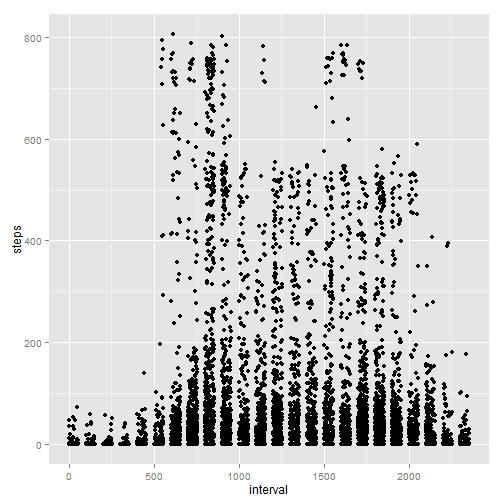
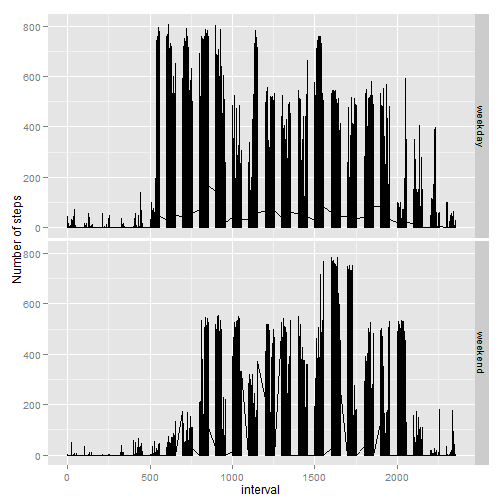
Third version
Completed the assignment with plot for weekdays and weekends.

Changed region(s): [[0.0, 0.0298, 0.9821, 0.9821], [0.7738, 0.0298, 0.8333, 0.0893]]

diff --git a/PA1_template.html b/PA1_template.html
@@ -189,10 +189,12 @@ hljs.initHighlightingOnLoad();
 
 <p>This assignment requires activity.zip file which can be downloaded from <a href="https://d396qusza40orc.cloudfront.net/repdata%2Fdata%2Factivity.zip">this location</a>.<br/>
 We first unzip the file and extract the activity.csv file.<br/>
+We will convert the date column to date object.
 Then let us take a look at the structure of the csv by using the head function and the summary function.</p>
 
 <pre><code class="r">unzip(&quot;activity.zip&quot;)
 activity &lt;- read.csv(&quot;activity.csv&quot;)
+activity$date &lt;- as.Date(activity$date)
 head(activity)
 </code></pre>
 
@@ -208,17 +210,14 @@ head(activity)
 <pre><code class="r">summary(activity)
 </code></pre>
 
-<pre><code>##      steps               date          interval   
-##  Min.   :  0.0   2012-10-01:  288   Min.   :   0  
-##  1st Qu.:  0.0   2012-10-02:  288   1st Qu.: 589  
-##  Median :  0.0   2012-10-03:  288   Median :1178  
-##  Mean   : 37.4   2012-10-04:  288   Mean   :1178  
-##  3rd Qu.: 12.0   2012-10-05:  288   3rd Qu.:1766  
-##  Max.   :806.0   2012-10-06:  288   Max.   :2355  
-##  NA&#39;s   :2304    (Other)   :15840
-</code></pre>
-
-<pre><code class="r">activity$date &lt;- as.Date(activity$date)
+<pre><code>##      steps            date               interval   
+##  Min.   :  0.0   Min.   :2012-10-01   Min.   :   0  
+##  1st Qu.:  0.0   1st Qu.:2012-10-16   1st Qu.: 589  
+##  Median :  0.0   Median :2012-10-31   Median :1178  
+##  Mean   : 37.4   Mean   :2012-10-31   Mean   :1178  
+##  3rd Qu.: 12.0   3rd Qu.:2012-11-15   3rd Qu.:1766  
+##  Max.   :806.0   Max.   :2012-11-30   Max.   :2355  
+##  NA&#39;s   :2304
 </code></pre>
 
 <h2>What is mean total number of steps taken per day?</h2>
@@ -241,6 +240,16 @@ head(activity)
 
 <pre><code class="r">activityMean &lt;- mean(activityByDate$steps)
 activityMedian &lt;- median(activityByDate$steps)
+activityMean
+</code></pre>
+
+<pre><code>## [1] 10766
+</code></pre>
+
+<pre><code class="r">activityMedian
+</code></pre>
+
+<pre><code>## [1] 10765
 </code></pre>
 
 <p>Mean of total number of steps taken each day is <strong>1.0766 &times; 10<sup>4</sup> steps</strong>.<br/>
@@ -262,23 +271,45 @@ qplot(interval, steps, data = activityByInterval, geom = c(&quot;line&quot;), ma
 <p>Next, we will use the <em>which</em> function to find out which daily interval contains the maximum of mean steps.</p>
 
 <pre><code class="r">maxSteps &lt;- max(activityByInterval$steps)
-maxStepsInterval &lt;- activityByInterval[which(activityByInterval$steps == maxSteps), 
-    1]
+maxSteps
+</code></pre>
+
+<pre><code>## [1] 206.2
+</code></pre>
+
+<pre><code class="r">maxStepsInterval &lt;- activityByInterval$interval[which(activityByInterval$steps == 
+    maxSteps)]
+maxStepsInterval
+</code></pre>
+
+<pre><code>## [1] 835
 </code></pre>
 
 <p>The daily interval containing maximum number of mean steps (<strong>206.1698 steps</strong>) is <strong>Interval  835</strong>.</p>
 
 <h2>Imputing missing values</h2>
 
-<p>First we will find all missing values using <em>which</em> function.  </p>
+<p>First, we will find all missing values using <em>which</em> function.  </p>
 
 <pre><code class="r">missingIndex &lt;- which(is.na(activity$steps))
 missingCount &lt;- nrow(as.array(missingIndex))
+missingCount
 </code></pre>
 
-<p><strong>We find that 2304 values are missing.</strong>  </p>
+<pre><code>## [1] 2304
+</code></pre>
 
-<p>Next we will replace those missing values by the mean steps of that interval. We have these already calculated in the <strong>activityByInterval</strong>.  </p>
+<p><strong>We find that 2304 values are missing.</strong><br/>
+Now, we will quickly draw a scatterplot (interval vs date) to see if there is any pattern in missing values.  </p>
+
+<pre><code class="r">qplot(date, interval, data = activity[missingIndex, ], main = &quot;Missing Interval scatterplot&quot;, 
+    ylab = &quot;Missing Intervals&quot;)
+</code></pre>
+
[1 lines of base64/hex data omitted]
+
+<p>It seems like data is missing for few complete days.
+Next we will replace those missing values by the mean steps of that interval. We have these already calculated in the <strong>activityByInterval</strong>.  </p>
 
 <p>Lets call the new data frame as filledActivity.</p>
 
@@ -299,33 +330,49 @@ hist(filledActivityByDate$steps, col = &quot;red&quot;, main = &quot;Histogram o
     xlab = &quot;Total steps taken daily (filled)&quot;)
 </code></pre>
 
[2 lines of base64/hex data omitted]
 
 <pre><code class="r">filledActivityMean &lt;- mean(filledActivityByDate$steps)
 filledActivityMedian &lt;- median(filledActivityByDate$steps)
+filledActivityMean
+</code></pre>
+
+<pre><code>## [1] 10766
+</code></pre>
+
+<pre><code class="r">filledActivityMedian
+</code></pre>
+
+<pre><code>## [1] 10766
 </code></pre>
 
 <p>New Mean of total number of steps taken each day is <strong>1.0766 &times; 10<sup>4</sup> steps</strong> vs Old Mean <strong>1.0766 &times; 10<sup>4</sup> steps</strong>.<br/>
-New Median of total number of steps taken each day is <strong>1.0766 &times; 10<sup>4</sup> steps</strong> vs Old Median <strong>1.0766 &times; 10<sup>4</sup> steps</strong>.<br/>
-<strong>There is no material difference in mean and median of the steps taken per day.</strong> This is because the missing data was missing for the full days. And when the data was filled with means across days, there was no impact. This can be verified by the following scatterplot for date-interval patterns in missing values.  </p>
+New Median of total number of steps taken each day is <strong>1.0766 &times; 10<sup>4</sup> steps</strong> vs Old Median <strong>10765 steps</strong>.  </p>
 
-<pre><code class="r">qplot(date, interval, data = activity[missingIndex, ])
-</code></pre>
-
[1 lines of base64/hex data omitted]
+<p><strong>There was no difference in mean of the total steps taken per day.</strong> This is because the missing data was missing for a few complete days. And we filled the missing data with means across days. Hence there was no impact on the mean.<br/>
+However, <strong>the median was shifted</strong> due to more <strong>mean</strong> values being inserted.</p>
 
 <h2>Are there differences in activity patterns between weekdays and weekends?</h2>
 
-<pre><code class="r">filledActivity$day &lt;- weekdays
+<p>We will first add a <strong>weekday</strong> column, whose value will be <em>weekday</em> for weekdays, and <em>weekend</em> for weekends.<br/>
+And compute the mean of steps by interval and weekday.  </p>
+
+<pre><code class="r">filledActivity$weekday &lt;- weekdays(filledActivity$date)
+filledActivity$weekday[filledActivity$weekday == &quot;Sunday&quot;] &lt;- &quot;weekend&quot;
+filledActivity$weekday[filledActivity$weekday == &quot;Saturday&quot;] &lt;- &quot;weekend&quot;
+filledActivity$weekday[filledActivity$weekday != &quot;weekend&quot;] &lt;- &quot;weekday&quot;
+
+filledActivityByWeekday &lt;- aggregate(steps ~ interval + weekday, data = filledActivity, 
+    mean)
 </code></pre>
 
-<pre><code>## Error: attempt to replicate an object of type &#39;closure&#39;
+<p>Next we will plot a line plot between with interval as x-axis and steps as y-axis and use weekday column as a facet.  </p>
+
+<pre><code class="r">qplot(interval, steps, data = filledActivityByWeekday, facets = weekday ~ ., 
+    geom = c(&quot;line&quot;), ylab = &quot;Number of steps&quot;)
 </code></pre>
 
-<pre><code class="r">qplot(interval, steps, data = filledActivity)
-</code></pre>
-
[2 lines of base64/hex data omitted]
 
 </body>
 

diff --git a/PA1_template.md b/PA1_template.md
@@ -7,12 +7,14 @@ This assignment makes use of data from a personal activity monitoring device. Th
 
 This assignment requires activity.zip file which can be downloaded from [this location](https://d396qusza40orc.cloudfront.net/repdata%2Fdata%2Factivity.zip).  
 We first unzip the file and extract the activity.csv file.  
+We will convert the date column to date object.
 Then let us take a look at the structure of the csv by using the head function and the summary function.
 
 
 ```r
 unzip("activity.zip")
 activity <- read.csv("activity.csv")
+activity$date <- as.Date(activity$date)
 head(activity)
 ```
 
@@ -31,18 +33,14 @@ summary(activity)
 ```
 
 ```
-##      steps               date          interval   
-##  Min.   :  0.0   2012-10-01:  288   Min.   :   0  
-##  1st Qu.:  0.0   2012-10-02:  288   1st Qu.: 589  
-##  Median :  0.0   2012-10-03:  288   Median :1178  
-##  Mean   : 37.4   2012-10-04:  288   Mean   :1178  
-##  3rd Qu.: 12.0   2012-10-05:  288   3rd Qu.:1766  
-##  Max.   :806.0   2012-10-06:  288   Max.   :2355  
-##  NA's   :2304    (Other)   :15840
-```
-
-```r
-activity$date <- as.Date(activity$date)
+##      steps            date               interval   
+##  Min.   :  0.0   Min.   :2012-10-01   Min.   :   0  
+##  1st Qu.:  0.0   1st Qu.:2012-10-16   1st Qu.: 589  
+##  Median :  0.0   Median :2012-10-31   Median :1178  
+##  Mean   : 37.4   Mean   :2012-10-31   Mean   :1178  
+##  3rd Qu.: 12.0   3rd Qu.:2012-11-15   3rd Qu.:1766  
+##  Max.   :806.0   Max.   :2012-11-30   Max.   :2355  
+##  NA's   :2304
 ```
 
 
@@ -69,6 +67,19 @@ Now we will take a mean and median of the resulting data.
 ```r
 activityMean <- mean(activityByDate$steps)
 activityMedian <- median(activityByDate$steps)
+activityMean
+```
+
+```
+## [1] 10766
+```
+
+```r
+activityMedian
+```
+
+```
+## [1] 10765
 ```
 
 
@@ -94,25 +105,53 @@ Next, we will use the *which* function to find out which daily interval contains
 
 ```r
 maxSteps <- max(activityByInterval$steps)
-maxStepsInterval <- activityByInterval[which(activityByInterval$steps == maxSteps), 
-    1]
+maxSteps
+```
+
+```
+## [1] 206.2
+```
+
+```r
+maxStepsInterval <- activityByInterval$interval[which(activityByInterval$steps == 
+    maxSteps)]
+maxStepsInterval
+```
+
+```
+## [1] 835
 ```
 
 
 The daily interval containing maximum number of mean steps (**206.1698 steps**) is **Interval  835**.
 
 ## Imputing missing values
-First we will find all missing values using *which* function.  
-
+First, we will find all missing values using *which* function.  
 
 ```r
 missingIndex <- which(is.na(activity$steps))
 missingCount <- nrow(as.array(missingIndex))
+missingCount
+```
+
+```
+## [1] 2304
 ```
 
 
-**We find that 2304 values are missing.**  
-  
+**We find that 2304 values are missing.**    
+Now, we will quickly draw a scatterplot (interval vs date) to see if there is any pattern in missing values.  
+
+
+```r
+qplot(date, interval, data = activity[missingIndex, ], main = "Missing Interval scatterplot", 
+    ylab = "Missing Intervals")
+```
+
+![plot of chunk unnamed-chunk-8](figure/unnamed-chunk-8.png) 
+
+
+It seems like data is missing for few complete days.
 Next we will replace those missing values by the mean steps of that interval. We have these already calculated in the **activityByInterval**.  
   
 Lets call the new data frame as filledActivity.
@@ -139,40 +178,57 @@ hist(filledActivityByDate$steps, col = "red", main = "Histogram of total steps t
     xlab = "Total steps taken daily (filled)")
 ```
 
-![plot of chunk unnamed-chunk-9](figure/unnamed-chunk-9.png) 
+![plot of chunk unnamed-chunk-10](figure/unnamed-chunk-10.png) 
 
 ```r
 filledActivityMean <- mean(filledActivityByDate$steps)
 filledActivityMedian <- median(filledActivityByDate$steps)
+filledActivityMean
+```
+
+```
+## [1] 10766
+```
+
+```r
+filledActivityMedian
+```
+
+```
+## [1] 10766
 ```
 
 
 New Mean of total number of steps taken each day is **1.0766 &times; 10<sup>4</sup> steps** vs Old Mean **1.0766 &times; 10<sup>4</sup> steps**.  
-New Median of total number of steps taken each day is **1.0766 &times; 10<sup>4</sup> steps** vs Old Median **1.0766 &times; 10<sup>4</sup> steps**.  
-**There is no material difference in mean and median of the steps taken per day.** This is because the missing data was missing for the full days. And when the data was filled with means across days, there was no impact. This can be verified by the following scatterplot for date-interval patterns in missing values.  
-
-```r
-qplot(date, interval, data = activity[missingIndex, ])
-```
-
-![plot of chunk unnamed-chunk-10](figure/unnamed-chunk-10.png) 
+New Median of total number of steps taken each day is **1.0766 &times; 10<sup>4</sup> steps** vs Old Median **10765 steps**.  
+  
+  
+**There was no difference in mean of the total steps taken per day.** This is because the missing data was missing for a few complete days. And we filled the missing data with means across days. Hence there was no impact on the mean.  
+However, **the median was shifted** due to more **mean** values being inserted.
 
 
 ## Are there differences in activity patterns between weekdays and weekends?
 
-
-
-```r
-filledActivity$day <- weekdays
-```
-
-```
-## Error: attempt to replicate an object of type 'closure'
-```
+We will first add a **weekday** column, whose value will be *weekday* for weekdays, and *weekend* for weekends.  
+And compute the mean of steps by interval and weekday.  
 
 ```r
-qplot(interval, steps, data = filledActivity)
+filledActivity$weekday <- weekdays(filledActivity$date)
+filledActivity$weekday[filledActivity$weekday == "Sunday"] <- "weekend"
+filledActivity$weekday[filledActivity$weekday == "Saturday"] <- "weekend"
+filledActivity$weekday[filledActivity$weekday != "weekend"] <- "weekday"
+
+filledActivityByWeekday <- aggregate(steps ~ interval + weekday, data = filledActivity, 
+    mean)
 ```
 
-![plot of chunk unnamed-chunk-11](figure/unnamed-chunk-11.png) 
+
+Next we will plot a line plot between with interval as x-axis and steps as y-axis and use weekday column as a facet.  
+
+```r
+qplot(interval, steps, data = filledActivityByWeekday, facets = weekday ~ ., 
+    geom = c("line"), ylab = "Number of steps")
+```
+
+![plot of chunk unnamed-chunk-12](figure/unnamed-chunk-12.png) 
 
